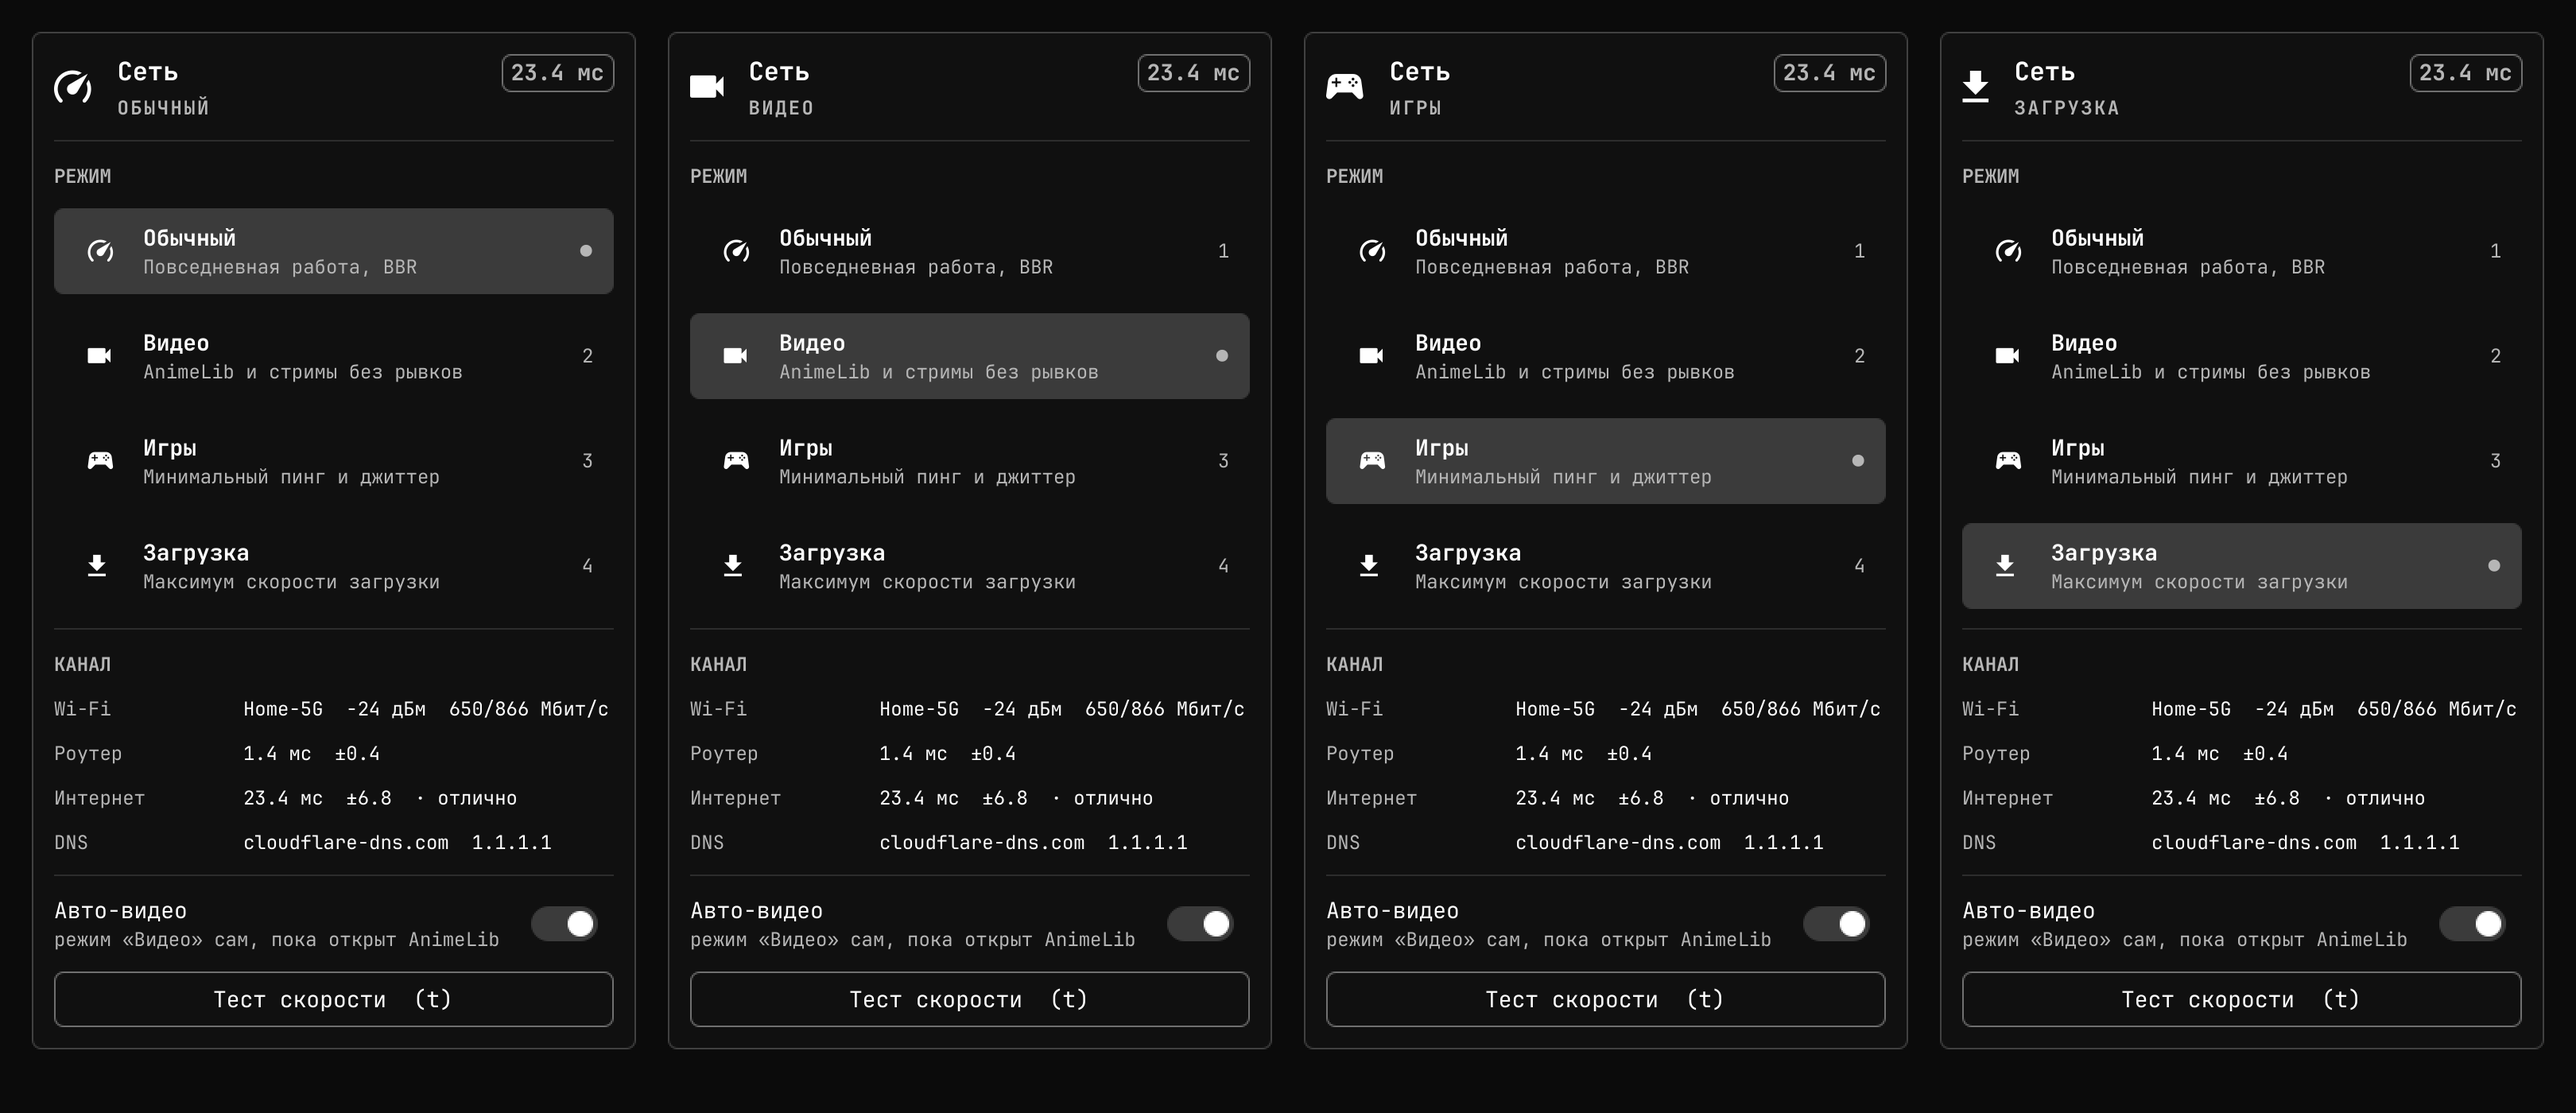
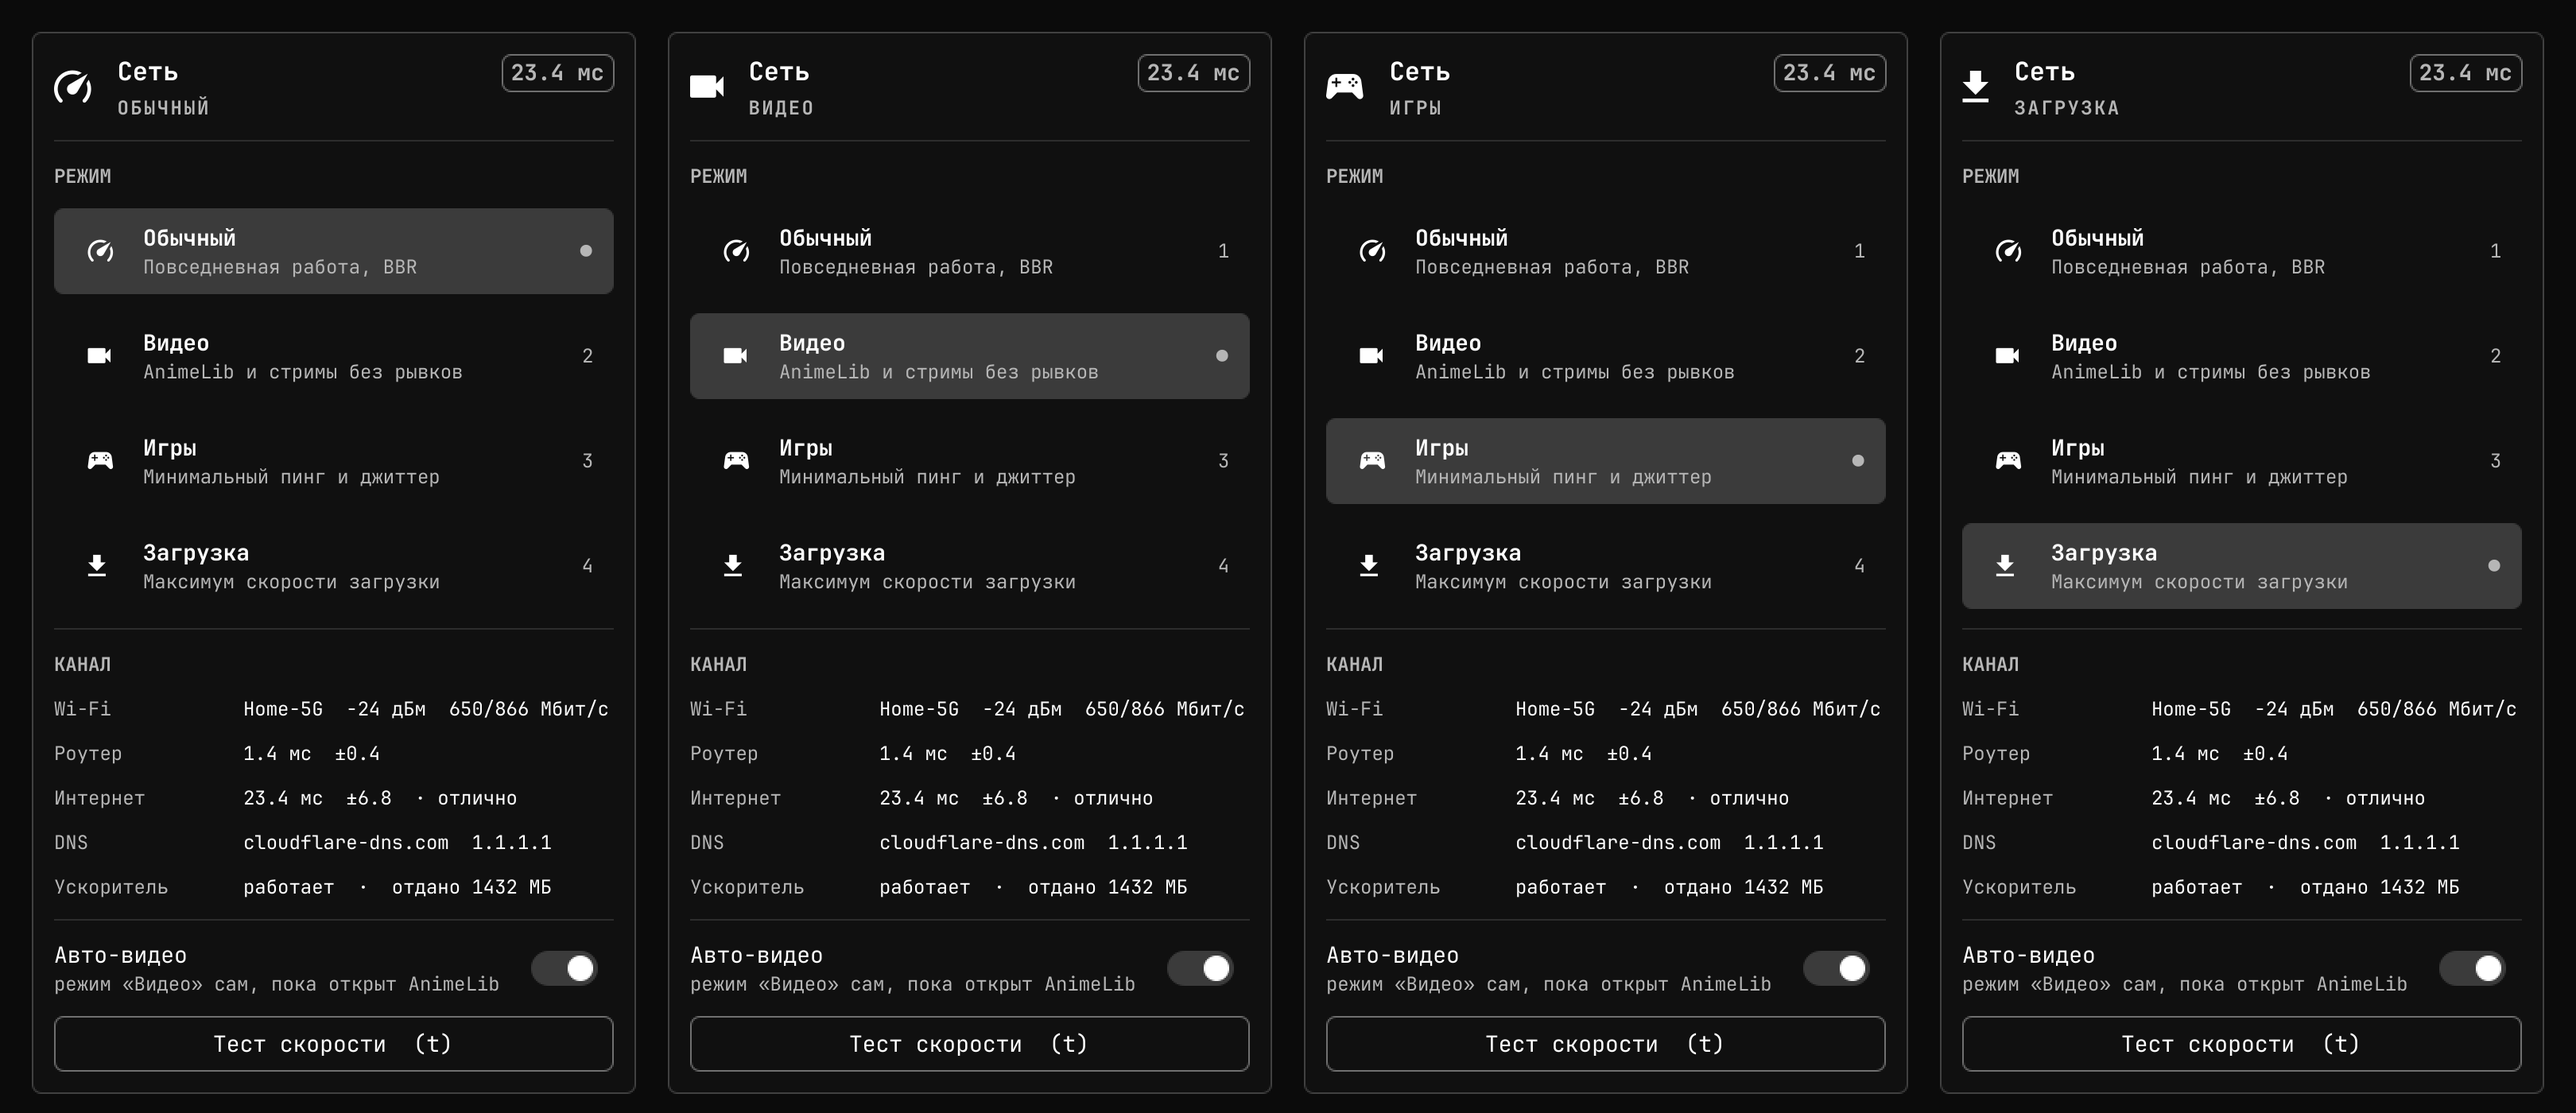
README и замеры: почему видео подвисает

Changed region(s): [[0.0, 0.7679, 0.9975, 0.9521], [0.3429, 0.7679, 0.3741, 0.8293]]

diff --git a/docs/MEASUREMENTS.md b/docs/MEASUREMENTS.md
@@ -49,6 +49,34 @@ sha256sum a.bin b.bin
 24,1 с против 5,3 с, суммы совпали. Сервер Cloudflare для проверки не
 подходит: он не отдаёт диапазоны, и `netmode get` честно качает одним потоком.
 
+## Скорость одного соединения с видеосервера
+
+Файл `video2.cdnlibs.org//uploads/converted_videos/anime/10393/players/1983/1983_2160.mp4`
+(1 039 099 724 байт), заголовок `Referer: https://animelib.org/`.
+
+Одно соединение, диапазон от 100 МБ, Мбит/с по секундам:
+`0, 8, 24, 22, 22, 21, 19, 21, 17, 12, 14, 7, 4, 6, 4, 5, 4, 2, 3, 3`.
+Четыре соединения: быстрый старт, потом около 12–15 суммарно. Соединение,
+открытое на 18-й секунде, когда первое уже остыло: 65, 40, 67, 40, 37, 40…
+Значит, ограничение у каждого соединения своё.
+
+Короткие куски по 8 МБ, шесть параллельных соединений, каждый кусок на новом
+соединении, 40 секунд: в среднем 120 Мбит/с, минимум по секундам 18. Часть
+свежих соединений всё же оказывается медленной (медиана куска 2 с, хвост
+7–23 с), поэтому прокси сбрасывает кусок, если за 2,5 с он прошёл меньше
+запланированного.
+
+Сквозная проверка (`chromium --headless=new`, чистый профиль, расширение,
+прокси, HTTPS-страница на localhost с `<video>` и `playbackRate = 3`):
+
+| | позиция видео через 90 с | ждал данных | кадров / пропущено |
+|---|---|---|---|
+| напрямую | 185 с | 16 из 45 замеров | 4443 / 883 |
+| через прокси | 260 с | 2 из 46 | 6246 / 1064 |
+
+Пропуски кадров в обоих случаях связаны с программным декодированием 3×
+4K в headless-режиме без GPU и к сети не относятся.
+
 ## Что не помогло
 
 - Сменить DNS на Cloudflare. Это полезно само по себе (запрос без кэша

diff --git a/docs/DEVELOPMENT.md b/docs/DEVELOPMENT.md
@@ -6,6 +6,7 @@ root/install-root.sh       корневая часть установки
 root/dev.noxqd.netmode.policy  действие polkit (запасной путь, если нет sudoers)
 bin/netmode                CLI, замеры, загрузчик, демон авто-видео
 plugin/                    QML-плагин панели Omarchy
+extension/                 расширение Chromium: перенаправляет видеозапросы на прокси
 tests/                     unittest
 ```
 
@@ -23,6 +24,21 @@ QT_QPA_PLATFORM=offscreen quickshell -p путь/к/shell.qml
 `modeList`, `snap`, `pulse` и `benchResult`; `Commons` и `Ui` берутся
 символическими ссылками из `/usr/share/omarchy/shell`. Так сделаны картинки в
 `docs/screenshots`.
+
+## Проверка ускорителя без своего браузера
+
+Прокси можно запустить командой `netmode proxy -v` и забрать кусок напрямую:
+
+```bash
+curl -r 5000000-5999999 http://127.0.0.1:18765/video2.cdnlibs.org//uploads/…/1983_2160.mp4
+```
+
+Для сквозной проверки нужен отдельный Chromium с чистым профилем
+(`--headless=new --user-data-dir=… --load-extension=extension`), страница по
+HTTPS и самоподписанный сертификат с `--ignore-certificate-errors`. Правило
+перенаправления ставится после старта сервис-воркера, поэтому `<video>`
+лучше создавать с задержкой в несколько секунд. Расширению нужны хост-права
+не только на видеосервер, но и на страницу-инициатор.
 
 ## Добавить режим
 
